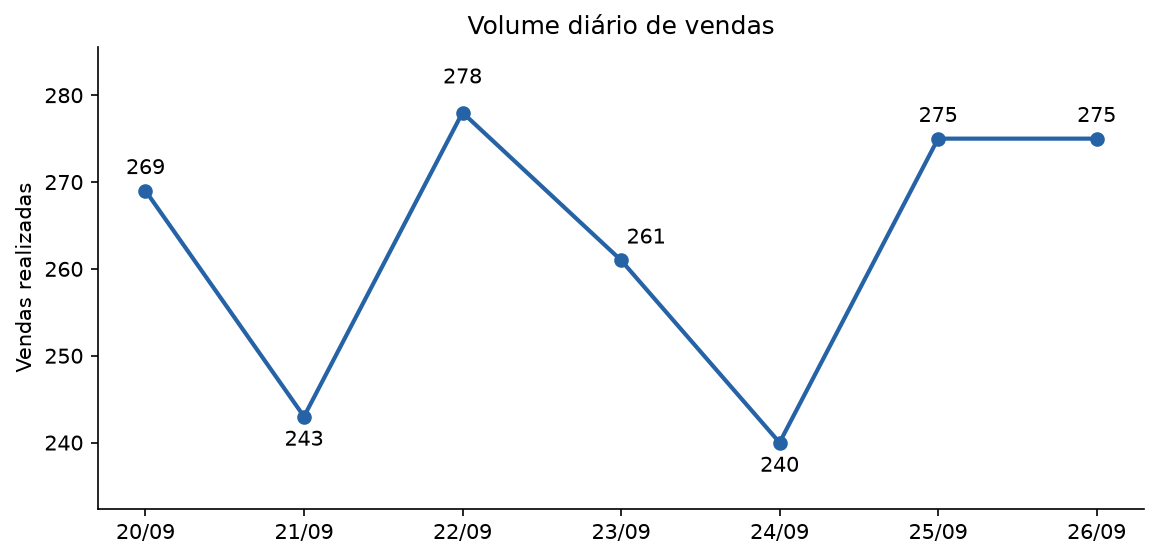
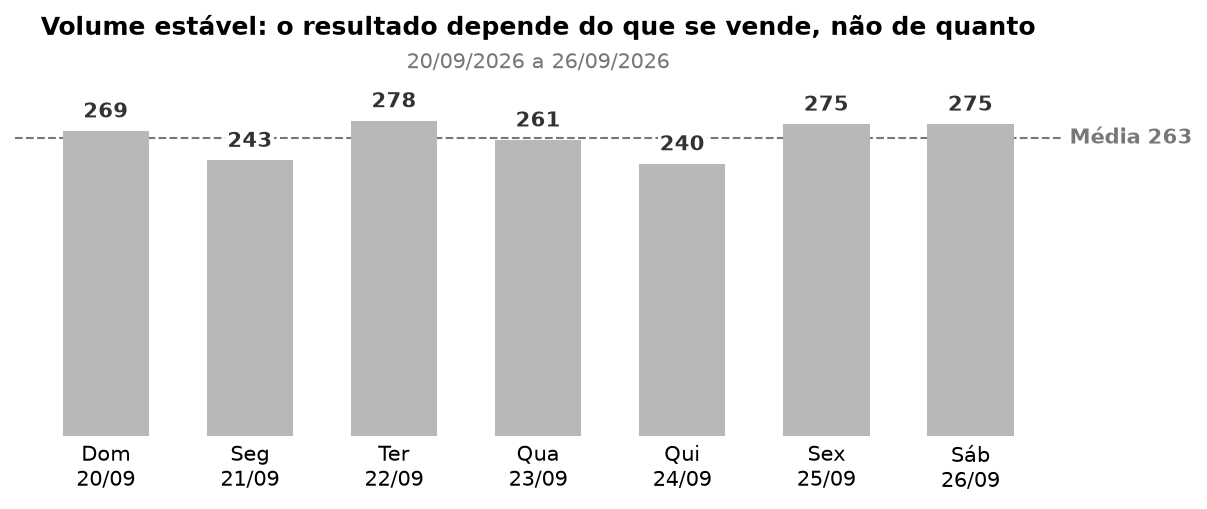
fix: melhorando gráficos e finalizando storytelling

diff --git a/src/analises/comercial/ranking_produtos/gerar_grafico.py b/src/analises/comercial/ranking_produtos/gerar_grafico.py
@@ -22,31 +22,57 @@ def grafico_volume_vendas(vendas: pl.DataFrame, caminho: Path, periodo: str) -> 
         .agg(pl.col("quantidade_vendida").sum())
         .sort("data_venda")
     )
-    datas = [data.strftime("%d/%m") for data in volume["data_venda"].to_list()]
+    # Nomes fixos em pt-BR: strftime("%a") depende do locale da máquina
+    dias_semana = ["Seg", "Ter", "Qua", "Qui", "Sex", "Sáb", "Dom"]
+    datas = [
+        f"{dias_semana[data.weekday()]}\n{data:%d/%m}"
+        for data in volume["data_venda"].to_list()
+    ]
     quantidades = volume["quantidade_vendida"].to_list()
+    media = sum(quantidades) / len(quantidades)
 
-    figura, eixo = plt.subplots(figsize=(9, 4))
-    eixo.plot(datas, quantidades, color="#2563A6", marker="o", linewidth=2)
-    eixo.set(title="Volume diário de vendas", ylabel="Vendas realizadas")
-    eixo.margins(y=0.2)
-    eixo.spines["top"].set_visible(False)
-    eixo.spines["right"].set_visible(False)
-
-    # Gambiarra manual para organizar o posicionamento dos valores
-    deslocamentos = {
-        "21/09": (0, -14),
-        "22/09": (0, 14),
-        "23/09": (12, 8),
-        "24/09": (0, -14),
-    }
-    for data, quantidade in zip(datas, quantidades, strict=True):
-        eixo.annotate(
-            str(quantidade),
-            (data, quantidade),
-            xytext=deslocamentos.get(data, (0, 8)),
-            textcoords="offset points",
-            ha="center",
-        )
+    figura, eixo = plt.subplots(figsize=(9, 3))
+    barras = eixo.bar(datas, quantidades, color="#B8B8B8", width=0.6)
+    # Fundo branco no rótulo para não cruzar com a linha da média
+    eixo.bar_label(
+        barras,
+        padding=4,
+        color="#333333",
+        fontweight="bold",
+        bbox={"facecolor": "white", "edgecolor": "none", "pad": 1},
+    )
+    # Atrás das barras, a média aparece só nos vãos
+    eixo.axhline(media, color="#777777", linewidth=1, linestyle="--", zorder=0)
+    eixo.annotate(
+        f"Média {media:.0f}",
+        (1, media),
+        xycoords=("axes fraction", "data"),
+        xytext=(4, 0),
+        textcoords="offset points",
+        va="center",
+        color="#777777",
+        fontweight="bold",
+    )
+    eixo.set_ylim(0, max(quantidades) * 1.1)
+    eixo.yaxis.set_visible(False)
+    eixo.tick_params(length=0)
+    for lado in ("top", "right", "bottom", "left"):
+        eixo.spines[lado].set_visible(False)
+    # Título e subtítulo centralizados nas barras, não na figura com o rótulo da média
+    eixo.set_title(
+        "Volume estável: o resultado depende do que se vende, não de quanto",
+        fontweight="bold",
+        pad=26,
+    )
+    eixo.annotate(
+        periodo,
+        (0.5, 1),
+        xycoords="axes fraction",
+        xytext=(0, 10),
+        textcoords="offset points",
+        ha="center",
+        color="#777777",
+    )
 
     figura.savefig(caminho, dpi=150, bbox_inches="tight")
     plt.close(figura)

diff --git a/src/analises/comercial/ranking_produtos/STORYTELLING.md b/src/analises/comercial/ranking_produtos/STORYTELLING.md
@@ -1,4 +1,4 @@
-    # Storytelling do Ranking de Produtos
+# Storytelling do Ranking de Produtos
 
 > Os dados utilizados foram gerados com Faker e NÃO são reais!
 
@@ -8,15 +8,16 @@ Fechamento semanal: o gestor confere vendas, metas e produtos de 20/09 a 26/09/2
 
 Os exemplos abaixo mostram os gráficos gerados pela automação para o período analisado.
 
-## Volume estável ao longo da semana
+## Qual foi o ritmo de vendas nessa semana?
 
-![Gráfico de linha com o volume diário de vendas](../../../../assets/exemplos/ranking_produtos/volume_vendas.png)
+![Gráfico de barras com as unidades vendidas por dia e uma linha de referência na média da semana](../../../../assets/exemplos/ranking_produtos/volume_vendas.png)
 
 Mostra a quantidade total de unidades vendidas em cada dia, facilitando a comparação do movimento ao longo da semana.
 
-Foram 1.841 unidades na semana, entre 240 e 278 por dia. Não houve dia fora do padrão.
+Foram 1.841 unidades na semana, entre 240 e 278 por dia, com média de 263. Não houve dia fora do padrão: o que muda
+o resultado é quais produtos se vendem.
 
-## Lápis lidera em unidades, mas mochila e garrafa fazem 71% do faturamento
+## Quais produtos mais venderam e qual o impacto das vendas na receita?
 
 ![Gráfico de barras horizontais com unidades vendidas e faturamento líquido por produto](../../../../assets/exemplos/ranking_produtos/produtos_mais_vendidos.png)
 
@@ -26,7 +27,7 @@ receita alta.
 O lápis vende mais unidades (263), mas responde por 1,4% do faturamento. Mochila escolar e Garrafa térmica somam 71%
 (R\$ 31.363) e são os produtos que mais pesam no resultado.
 
-## A equipe bateu a meta, mas só um vendedor bateu a meta
+## E o desempenho dos vendedores nessa semana?
 
 ![Gráfico de barras com o percentual da meta atingido por vendedor e uma linha de referência em 100%](../../../../assets/exemplos/ranking_produtos/faturamento_meta_vendedores.png)
 
@@ -35,7 +36,7 @@ Compara, em reais, o faturamento líquido de cada vendedor com sua meta. Ajuda a
 Cauã Rocha atingiu 127,9% da meta (R\$ 15.934 contra R\$ 12.456). Brenda Alves ficou em 95,4% (R\$ 735 abaixo) e
 Sra. Isabelly Câmara em 86,3% (R\$ 2.029 abaixo).
 
-## Mochila e garrafa concentram 94% da meta perdida
+## Algum produto não atingiu a meta de faturamento semanal?
 
 ![Gráfico de barras com a diferença, em reais, entre faturamento líquido e meta de cada produto](../../../../assets/exemplos/ranking_produtos/faturamento_meta_produtos.png)
 

diff --git a/src/analises/comercial/ranking_produtos/README.md b/src/analises/comercial/ranking_produtos/README.md
@@ -34,7 +34,7 @@ Planilhas de períodos anteriores em `dados/` não entram no resumo.
 
 | Arquivo                           | Análise                                                     |
 |-----------------------------------|-------------------------------------------------------------|
-| `volume_vendas.png`               | Evolução diária das unidades vendidas.                      |
+| `volume_vendas.png`               | Unidades vendidas por dia e média da semana.                |
 | `produtos_mais_vendidos.png`      | Unidades e participação no faturamento por produto.         |
 | `faturamento_meta_vendedores.png` | % da meta atingido por vendedor.                            |
 | `faturamento_meta_produtos.png`   | Diferença entre faturamento líquido e meta por produto.     |
